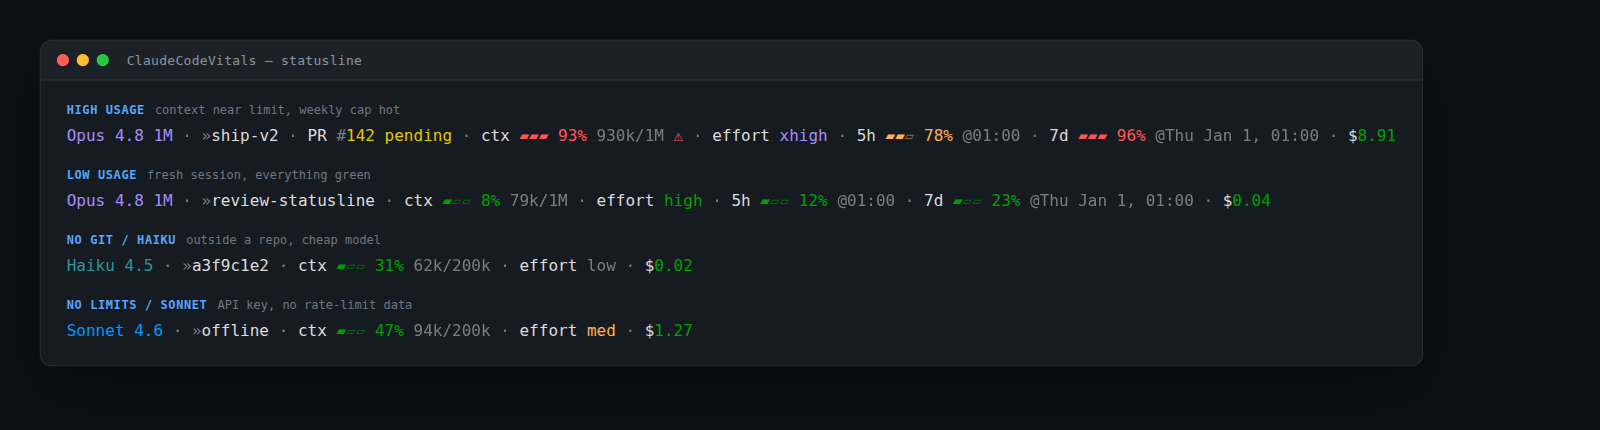
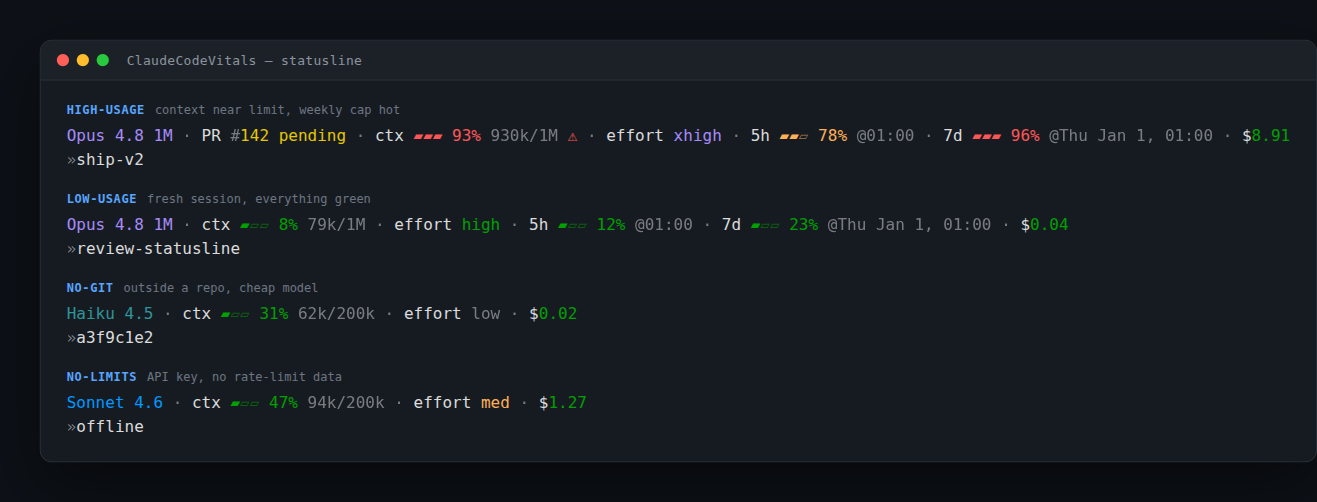
feat: render session name on its own line (#4)

diff --git a/samples/ansi_to_html.py b/samples/ansi_to_html.py
@@ -1,21 +1,27 @@
 #!/usr/bin/env python3
 """Render the statusline sample output as a styled HTML terminal card.
 
-Reads ANSI-colored text on stdin (truecolor fg `38;2;r;g;b`, dim `2`, reset
-`0`) and emits a self-contained HTML page for screenshotting.
+Reads `samples/run.sh` output on stdin: blocks delimited by `── name ──`
+headers, each followed by one or more ANSI-colored statusline lines (the
+statusline renders the dense info line plus the session name on its own line).
+Emits a self-contained HTML page for screenshotting.
+
+Handles truecolor fg `38;2;r;g;b`, dim `2`, and reset `0`.
 """
 import html
 import re
 import sys
 
 ESC = re.compile(r"\x1b\[([0-9;]*)m")
+HEADER = re.compile(r"^── (.+) ──$")
 
-ROWS = [
-    ("high usage", "context near limit, weekly cap hot"),
-    ("low usage", "fresh session, everything green"),
-    ("no git / Haiku", "outside a repo, cheap model"),
-    ("no limits / Sonnet", "API key, no rate-limit data"),
-]
+# Optional human hints per sample fixture (by basename); unknown → no hint.
+HINTS = {
+    "high-usage": "context near limit, weekly cap hot",
+    "low-usage": "fresh session, everything green",
+    "no-git": "outside a repo, cheap model",
+    "no-limits": "API key, no rate-limit data",
+}
 
 
 def line_to_html(line: str) -> str:
@@ -63,16 +69,29 @@ def line_to_html(line: str) -> str:
     return "".join(out)
 
 
+def parse_blocks(text: str):
+    """Yield (label, [content_line, ...]) for each `── label ──` block."""
+    label, lines = None, []
+    for raw in text.splitlines():
+        m = HEADER.match(raw)
+        if m:
+            if label is not None:
+                yield label, lines
+            label, lines = m.group(1), []
+        elif raw.strip():
+            lines.append(raw)
+    if label is not None:
+        yield label, lines
+
+
 def main() -> None:
-    raw = [l for l in sys.stdin.read().splitlines()
-           if l.strip() and not l.startswith("─")]
     cells = []
-    for idx, line in enumerate(raw):
-        label, hint = ROWS[idx] if idx < len(ROWS) else (f"case {idx+1}", "")
+    for label, lines in parse_blocks(sys.stdin.read()):
+        hint = HINTS.get(label, "")
+        bars = "\n".join(f'<div class="bar">{line_to_html(l)}</div>' for l in lines)
         cells.append(
             f'<div class="row"><div class="meta"><span class="tag">{html.escape(label)}</span>'
-            f'<span class="hint">{html.escape(hint)}</span></div>'
-            f'<div class="bar">{line_to_html(line)}</div></div>'
+            f'<span class="hint">{html.escape(hint)}</span></div>{bars}</div>'
         )
     body = "\n".join(cells)
     print(f"""<!doctype html><html><head><meta charset="utf-8"><style>

diff --git a/README.md b/README.md
@@ -13,10 +13,15 @@ fresh session, no-git on Haiku, and an API key with no rate-limit data.</sub>
 
 ## Segments
 
-`model · session · git · pr · ctx · effort · 5h · 7d · extra · cost`
+Rendered on two lines — a dense info line, then the session name on its own:
+
+```text
+model · git · pr · ctx · effort · 5h · 7d · extra · cost
+»session
+```
 
 - **model** — accent-colored by family (Opus/Sonnet/Haiku)
-- **session** — your `/rename`d session name, else a short id
+- **session** — your `/rename`d session name (else a short id), on its own line so a long name never crowds the info
 - **git** — `dir@branch`, dirty `*`, `↑/↓` vs upstream, `+/-` diffstat
 - **pr** — PR number + review state (auto-hidden off a PR)
 - **ctx** — context bar + %, turns red with ⚠ above 90%
